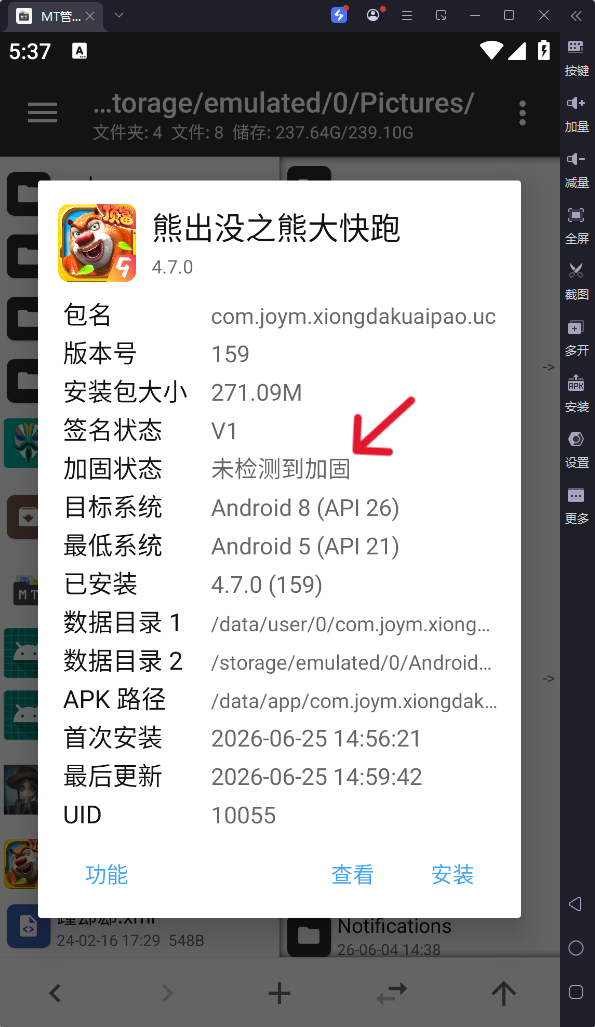
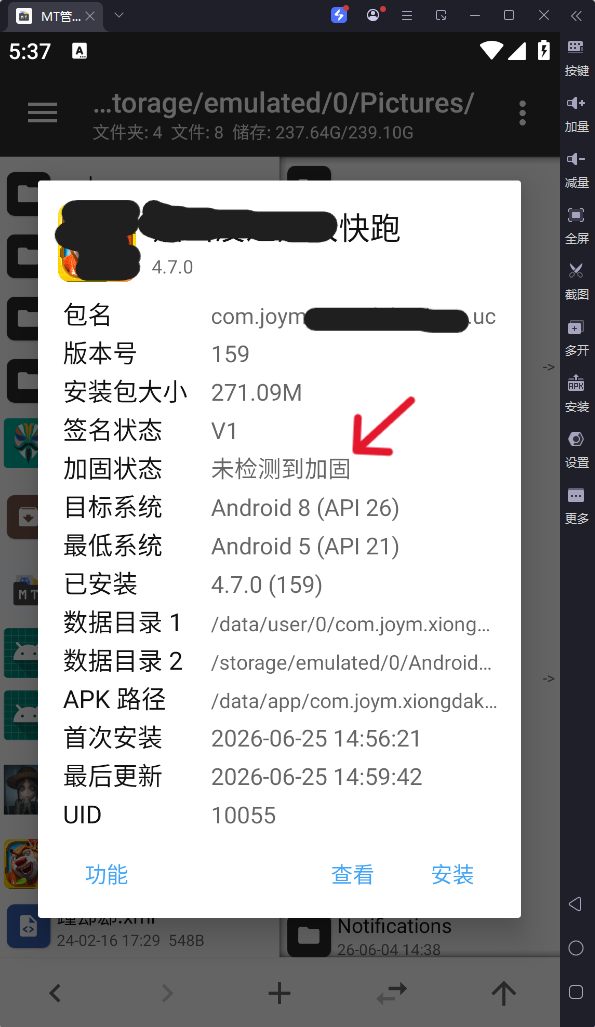
Anonymize game name in reverse engineering writeup and update screenshot.

Changed region(s): [[0.0908, 0.187, 0.5748, 0.2804], [0.5143, 0.2804, 0.7866, 0.3427]]

diff --git a/src/content/blog/xiongdakuaipao-reverse.md b/src/content/blog/xiongdakuaipao-reverse.md
@@ -1,6 +1,6 @@
 ---
-title: 记一次对游戏熊大快跑的逆向实操
-description: 针对熊出没之熊大快跑这款 IL2CPP Unity 手游，使用 Frida 编写锁血脚本的完整逆向流程记录。
+title: 记一次对某某快跑的逆向实操
+description: 针对某某快跑这款 IL2CPP Unity 手游，使用 Frida 编写锁血脚本的完整逆向流程记录。
 cover: /images/b4a45161fe2670bd56a22905a35901f513d21c4e.jpg@1192w.avif
 coverPosition: center 35%
 pubDate: 2026-07-03
@@ -15,7 +15,7 @@ categories:
 ---
 
 # 前情提要
-几周前，我们网络空间安全学院的老师邀请我上台为同学们做一次有关**安卓逆向**的分享。想到我最近学了**frida**，于是我决定针对**熊大快跑**这款游戏写一个**frida脚本**进行分享，这个脚本主要用于实现**锁血**功能（即碰到各类碰撞物不会掉血、不会死亡）。 
+几周前，我们网络空间安全学院的老师邀请我上台为同学们做一次有关**安卓逆向**的分享。想到我最近学了**frida**，于是我决定针对**某某快跑**这款游戏写一个**frida脚本**进行分享，这个脚本主要用于实现**锁血**功能（即碰到各类碰撞物不会掉血、不会死亡）。 
 # 背景知识
 ## Unity游戏的编译方式
 Unity游戏会有两类**编译方式**，一种是**Mono**，一种是**IL2CPP**。接下来简单介绍一下两种编译方式。
@@ -30,14 +30,14 @@ Unity游戏会有两类**编译方式**，一种是**Mono**，一种是**IL2CPP*
 # 具体流程
 ## 一、查看基本信息和相关dll、C#文件
 ### 基本信息
-1. 在**雷电模拟器**中下载安装游戏**熊出没之熊大快跑**，用**MT管理器**查看相关信息：
+1. 在**雷电模拟器**中下载安装游戏**某某快跑**，用**MT管理器**查看相关信息：
 ![](/images/blog/xiongdakuaipao/qq-1782985048428-1.png)
 显然**没有加固**。
-2. 导出安装包，在win端解压apk，进入**lib文件夹**内查看**so文件**（路径类似于..\熊出没之熊大快跑\lib\arm64-v8a），很明显可以看到有一个叫l**ibil2cpp.so**的so文件，基本可以断定这就是一个**IL2CPP**架构的Unity手游，同时也是一个**ARM64**架构的游戏。
+2. 导出安装包，在win端解压apk，进入**lib文件夹**内查看**so文件**（路径类似于..\lib\arm64-v8a），很明显可以看到有一个叫l**ibil2cpp.so**的so文件，基本可以断定这就是一个**IL2CPP**架构的Unity手游，同时也是一个**ARM64**架构的游戏。
 ![](/images/blog/xiongdakuaipao/qq-1782985426846.png)
 这个**libil2cpp.so**是 Android 平台**IL2CPP**编译Unity游戏的**核心动态库文件**，等同于 Windows 的 **GameAssembly.dll**。
 ### 相关dll、C#以及配置文件
-1. 打开**IL2CppDumper**，选择**libil2cpp.so**，接着选**global-metadata.dat**（路径类似于..\熊出没之熊大快跑\assets\bin\Data\Managed\Metadata\global-metadata.dat），等待几分钟它就会为你dump出**相关dll、C#以及配置文件**在**IL2CppDumper的目录**下：
+1. 打开**IL2CppDumper**，选择**libil2cpp.so**，接着选**global-metadata.dat**（路径类似于..\assets\bin\Data\Managed\Metadata\global-metadata.dat），等待几分钟它就会为你dump出**相关dll、C#以及配置文件**在**IL2CppDumper的目录**下：
 ![](/images/blog/xiongdakuaipao/qq-1782986573568.png)
 ![](/images/blog/xiongdakuaipao/qq-1782986594558.png)
 ![](/images/blog/xiongdakuaipao/qq-1782986094116.png)
